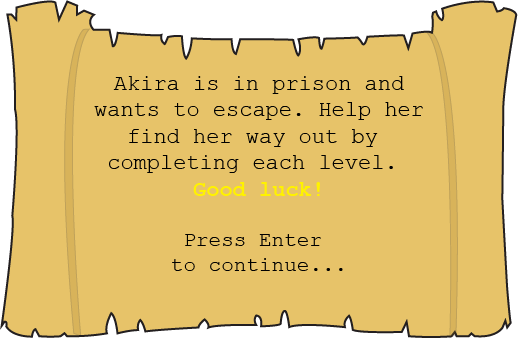
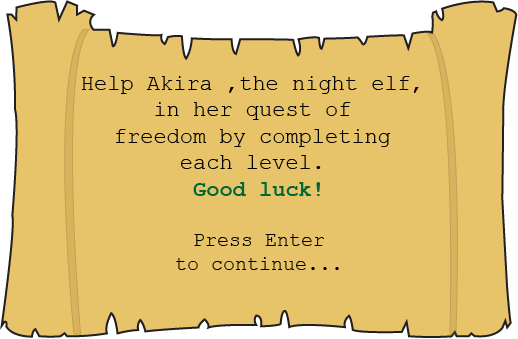
Initial commit

diff --git a/src/IntroMessage2.java b/src/IntroMessage2.java
@@ -4,33 +4,37 @@ import org.newdawn.slick.state.StateBasedGame;
 import org.newdawn.slick.state.transition.FadeInTransition;
 import org.newdawn.slick.state.transition.FadeOutTransition;
 
-public class IntroMessage extends BasicGameState{
+public class IntroMessage2 extends BasicGameState{
+
+    private Animation intro;
 
     private Music back;
 
-    private Image mess;
+    private int[] duration = {200, 200, 200};
 
     private boolean quit = false;
 
-    public IntroMessage(int state){}
+    public IntroMessage2(int state){}
 
     @Override
     public int getID() {
-        return 1;
+        return 2;
     }
 
     @Override
     public void init(GameContainer gameContainer, StateBasedGame stateBasedGame) throws SlickException {
+        Image[] message = {new Image("res/intromessage/intro.png"), new Image("res/intromessage/intro1.png"), new Image("res/intromessage/intro2.png")};
+
+        intro = new Animation(message, duration, true);
 
         back = new Music("res/back.ogg");
-
-        mess = new Image("res/intromessage/intro0.png");
 
     }
 
     @Override
     public void render(GameContainer gameContainer, StateBasedGame stateBasedGame, Graphics graphics) throws SlickException {
-        mess.draw(50, 10);
+
+        intro.draw(50, 10);
     }
 
     @Override
@@ -38,7 +42,7 @@ public class IntroMessage extends BasicGameState{
         Input input = gameContainer.getInput();
 
         if(input.isKeyDown(Input.KEY_ENTER)){
-            stateBasedGame.enterState(2, new FadeOutTransition(), new FadeInTransition());
+            stateBasedGame.enterState(3, new FadeOutTransition(), new FadeInTransition());
         }
 
         if(input.isKeyDown(Input.KEY_ESCAPE)){

diff --git a/src/Game.java b/src/Game.java
@@ -6,13 +6,14 @@ public class Game extends StateBasedGame{
     private static final String gamename = "UP Quest";
     private static final int menu = 0;
     private static final int intro = 1;
-    private static final int welcome = 2;
-    private static final int play = 3;
-    private static final int playTwo = 4;
-    private static final int playThree = 5;
-    private static final int playFour = 6;
-    private static final int playFive = 7;
-    private static final int ending = 8;
+    private static final int intro2 = 2;
+    private static final int welcome = 3;
+    private static final int play = 4;
+    private static final int playTwo = 5;
+    private static final int playThree = 6;
+    private static final int playFour = 7;
+    private static final int playFive = 8;
+    private static final int ending = 9;
 
 
     private Game(String gamename){
@@ -26,6 +27,7 @@ public class Game extends StateBasedGame{
         this.addState(new PlayFive(playFive));
         this.addState(new Ending(ending));
         this.addState(new IntroMessage(intro));
+        this.addState(new IntroMessage2(intro2));
     }
 
     @Override
@@ -39,6 +41,8 @@ public class Game extends StateBasedGame{
         this.getState(playFive).init(gc, this);
         this.getState(ending).init(gc, this);
         this.getState(intro).init(gc, this);
+        this.getState(intro2).init(gc, this);
+
         gc.setShowFPS(false);
         this.enterState(menu);
     }

diff --git a/src/WelcomeScreen.java b/src/WelcomeScreen.java
@@ -21,7 +21,7 @@ public class WelcomeScreen extends BasicGameState{
 
     @Override
     public int getID() {
-        return 2;
+        return 3;
     }
 
     @Override
@@ -64,7 +64,7 @@ public class WelcomeScreen extends BasicGameState{
 
         if((mousePosX > 275 && mousePosX < 365) && (mousePosY > 125 && mousePosY < 175)){
             if(Mouse.isButtonDown(0)) {
-                stateBasedGame.enterState(3, new FadeOutTransition(), new FadeInTransition());
+                stateBasedGame.enterState(4, new FadeOutTransition(), new FadeInTransition());
             }
         }
     }

diff --git a/src/PlayTwo.java b/src/PlayTwo.java
@@ -38,7 +38,7 @@ public class PlayTwo extends BasicGameState{
 
     @Override
     public int getID() {
-        return 4;
+        return 5;
     }
 
     @Override
@@ -158,7 +158,7 @@ public class PlayTwo extends BasicGameState{
              // INSERT NEXT LEVEL
             complete.draw(60, 10);
             if(input.isKeyDown(Input.KEY_ENTER)) {
-                stateBasedGame.enterState(5, new FadeOutTransition(), new FadeInTransition());
+                stateBasedGame.enterState(6, new FadeOutTransition(), new FadeInTransition());
             }
         }
         if(start){

diff --git a/src/Play.java b/src/Play.java
@@ -108,7 +108,7 @@ public class Play extends BasicGameState{
         if(fbat && fhat && fhandcuff && fgun && fclock && fshoe && fbadge){
             complete.draw(60, 10);
             if(input.isKeyDown(Input.KEY_ENTER)){
-                sbg.enterState(4, new FadeOutTransition(), new FadeInTransition());
+                sbg.enterState(5, new FadeOutTransition(), new FadeInTransition());
             }
         }
 
@@ -236,7 +236,7 @@ public class Play extends BasicGameState{
 
     @Override
     public int getID() {
-        return 3;
+        return 4;
     }
 
 }

diff --git a/src/PlayFour.java b/src/PlayFour.java
@@ -49,7 +49,7 @@ public class PlayFour extends BasicGameState{
 
     @Override
     public int getID() {
-        return 6;
+        return 7;
     }
 
     @Override
@@ -667,7 +667,7 @@ public class PlayFour extends BasicGameState{
             dlights = 1;
             if(input.isKeyDown(input.KEY_ENTER))
                 charge.stop();
-                stateBasedGame.enterState(7, new FadeOutTransition(), new FadeInTransition());
+                stateBasedGame.enterState(8, new FadeOutTransition(), new FadeInTransition());
         }
 
         //the player quits

diff --git a/src/PlayThree.java b/src/PlayThree.java
@@ -24,7 +24,7 @@ public class PlayThree extends BasicGameState {
 
     @Override
     public int getID() {
-        return 5;
+        return 6;
     }
 
     @Override
@@ -155,7 +155,7 @@ public class PlayThree extends BasicGameState {
         }
       if (charPosX < -875 && (charPosY < -945)) {   // naana sa stairs up
 
-          stateBasedGame.enterState(6, new FadeOutTransition(), new FadeInTransition());
+          stateBasedGame.enterState(7, new FadeOutTransition(), new FadeInTransition());
       }
 
         if(input.isKeyDown(Input.KEY_ESCAPE)) {

diff --git a/src/PlayFive.java b/src/PlayFive.java
@@ -35,7 +35,7 @@ public class PlayFive extends BasicGameState {
 
     @Override
     public int getID() {
-        return 7;
+        return 8;
     }
 
     @Override
@@ -194,7 +194,7 @@ public class PlayFive extends BasicGameState {
             levelComplete = true;
         }
         if(levelComplete){
-            stateBasedGame.enterState(8, new FadeOutTransition(), new FadeInTransition());
+            stateBasedGame.enterState(9, new FadeOutTransition(), new FadeInTransition());
         }
 
         mousePosX = Mouse.getX();

diff --git a/src/Ending.java b/src/Ending.java
@@ -22,7 +22,7 @@ public class Ending extends BasicGameState{
 
     @Override
     public int getID() {
-        return 8;
+        return 9;
     }
 
     @Override
